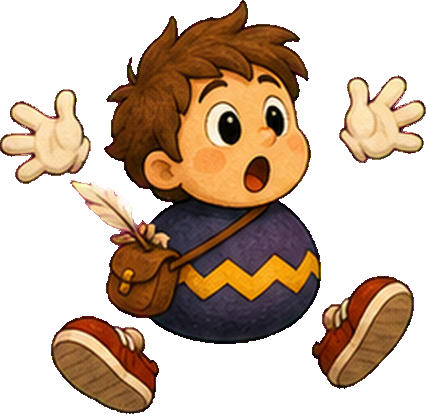
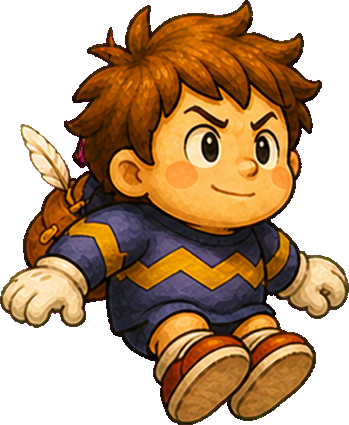
R5-F4 · Die AQ5-Kunst ist verdrahtet — die Anholung hat endlich ihr Bild
F3 hatte die Anholung zweimal gebaut, an den Gliedern und am ganzen Körper, und
ein dritter blinder Prüfer nannte sie trotzdem abwesend. Die Ursache war keine
Zeile Code: der Held wird aus gemalten Ganzkörper-Zellen gezeichnet, und die
sprang in EINEM Tick von »steht« auf »fliegt«. Batch AQ5 liefert die fehlenden
Bilder; dies ist die Runde, die sie einsetzt.

IMPORT-WERKZEUG (scripts/import-codex-sheet.mjs). Codex liefert Blätter: ein
Raster aus 512er-Zellen, Figuren opak über Magenta. Das Spiel will das
Gegenteil: eine freigestellte, auf den belegten Kasten getrimmte Datei je Zelle.
Dazwischen lag Handarbeit — und der Schnitt ist genau der Schritt, bei dem der
berüchtigte Rosa-Saum entsteht (key-fringe.mjs erzählt, was er einmal angerichtet
hat). Ein Skript schneidet jedes Mal gleich, eine Hand nicht. Die Kette ist jetzt
Import → strip-key-fringe → check-paint-art, und sie hat beim ersten Lauf 8.487
Saum-Pixel über genau die sieben neuen Zellen geheilt.

VERDRAHTET:
· `hero2_crouch` für die ersten zwei Ticks des Sprungs (HERO2_CROUCH_TICKS).
  Der Absprung wird NICHT verzögert — physikalisch ist der Körper längst
  unterwegs, gezeigt wird zwei Ticks lang noch das Sammeln. Der Körper-Coil aus
  F3 läuft darunter weiter und trägt die Zelle.
· Der Flug-Zyklus: aus einer eingefrorenen Zeichnung werden fünf Silhouetten
  (crouch · Aufstieg 1 · Aufstieg 2 · Scheitel · Fall). Zwei Prüfer hatten den
  20-Tick-Standbildflug unabhängig für gravierender gehalten als die fehlende
[…]

diff --git a/packages/game-paint/src/rigSpec.ts b/packages/game-paint/src/rigSpec.ts
@@ -4,6 +4,7 @@
 // global scale keeps the commissioned proportions. Pure data + tiny pure fns —
 // the scene's compositor consumes this; rig.ts supplies the motion.
 
+import { PAINT } from "./paint.ts";
 import type { PlayerPose } from "./player.ts";
 import { RIG, isGrounded } from "./rig.ts";
 
@@ -147,12 +148,40 @@ export const HERO2_STRIDE_TICKS = 9;
 /** |vy| (subs/tick) under which a jump arc reads as its weightless apex. */
 export const HERO2_APEX_VY = 40;
 
+// ── R5-F4 · DIE ANHOLUNG BEKOMMT IHR BILD (Batch AQ5) ────────────────────────
+// F3 hat die Anholung zweimal gebaut — an den Gliedern und am ganzen Körper —
+// und ein dritter blinder Prüfer nannte sie trotzdem abwesend. Zu Recht: der
+// Held wird aus gemalten Ganzkörper-Zellen gezeichnet, und die sprang in EINEM
+// Tick von „steht" auf „fliegt". Eine Stauchung verformt danach nur noch eine
+// Zeichnung, die den Sprung schon zeigt. Was fehlte, war ein gemaltes Bild der
+// Hocke — es liegt jetzt vor, und dies ist die Zeile, auf die F3 gewartet hat.
+/** Wie lange die Hocke steht. Zwei Ticks (33 ms): lang genug, dass das Auge
+ *  einen Zustand VOR dem Flug sieht, kurz genug, dass der Sprung nicht träge
+ *  wirkt. Der Absprung selbst ist unverändert — es wird nichts verzögert,
+ *  nur in den ersten beiden Ticks etwas anderes gezeigt. Der Körper-Coil aus
+ *  F3 (RIG.launchCoilTicks = 4) läuft darunter weiter und trägt die Zelle. */
+export const HERO2_CROUCH_TICKS = 2;
+/** Der Aufstieg ist jetzt zweistufig (AQ5 liefert Aufstieg 1 + 2). Die Schwelle
+ *  ist die Absprunggeschwindigkeit SELBST — abgeleitet, nicht getippt, damit
+ *  eine Physik-Änderung sie mitnimmt.
+ *
+ *  Der Grund steht in der gemessenen Geschwindigkeitsleiter eines gehaltenen
+ *  Sprungs: −1280 für FÜNFZEHN Ticks (das Haltefenster unterdrückt die
+ *  Schwerkraft), dann 1024 · 768 · 512 · 256 · 0. Der Aufstieg zerfällt also
+ *  von Natur aus in zwei ungleiche Hälften — den getragenen Teil, solange die
+ *  Taste hält, und den, in dem die Schwerkraft schon zieht. Genau dort trennt
+ *  diese Schwelle: Zelle eins gehört dem Abdrücken, Zelle zwei dem Steigen, das
+ *  bereits nachlässt. Ein Zwischenwert (der erste Versuch stand bei 420) gab
+ *  der zweiten Zelle einen einzigen Tick — gemessen, nicht vermutet. */
+export const HERO2_RISE2_VY = Math.abs(PAINT.jumpVy);
+
 /** The teeter alternates its two cells at this period (presentation clock). */
 export const HERO2_TEETER_TICKS = 28;
 
 export const HERO2_STEMS = [
   "hero2_run0", "hero2_run1", "hero2_run2", "hero2_run3",
-  "hero2_jump", "hero2_apex", "hero2_fall", "hero2_land",
+  "hero2_jump", "hero2_jump2", "hero2_apex", "hero2_fall", "hero2_land",
+  "hero2_crouch",
   "hero2_idle", "hero2_hit", "hero2_cheer",
   "hero2_teeter0", "hero2_teeter1",
 ] as const;
@@ -173,13 +202,25 @@ export const heroFullCell = (
   cheering: boolean,
   atEdge: boolean,
   tick: number,
+  /** R5-F4 · Ticks seit dem Absprung. Optional (Vorgabe „lange her"), damit
+   *  jeder bestehende Aufrufer und jeder Test unverändert bleibt. */
+  jumpedAgo = 99,
 ): string | null => {
   if (cheering) return "hero2_cheer";
   if (pose === "hit") return "hero2_hit";
   if (isLanding(pose, landedAgo)) return "hero2_land";
   if (pose === "jump" || pose === "fall") {
+    // R5-F4 · zuerst die Hocke: der Körper ist physikalisch schon unterwegs
+    // (der Absprung wurde NICHT verzögert), gezeigt wird für zwei Ticks noch
+    // das Sammeln. Genau die Lüge, die Animation seit jeher erzählt — und die
+    // eine, die F3 nicht erzählen konnte, weil das Bild dazu fehlte.
+    if (pose === "jump" && jumpedAgo < HERO2_CROUCH_TICKS) return "hero2_crouch";
     if (Math.abs(vySubs) < HERO2_APEX_VY) return "hero2_apex";
-    return pose === "jump" ? "hero2_jump" : "hero2_fall";
+    if (pose === "fall") return "hero2_fall";
+    // …und der Aufstieg in zwei Stufen statt einer eingefrorenen Zeichnung:
+    // zwei Prüfer nannten den 20-Tick-Standbild-Flug unabhängig gravierender
+    // als die fehlende Anholung.
+    return Math.abs(vySubs) >= HERO2_RISE2_VY ? "hero2_jump" : "hero2_jump2";
   }
   if (pose === "run" || pose === "walk") {
     return `hero2_run${Math.floor(walkTime / HERO2_STRIDE_TICKS) % 4}`;

diff --git a/packages/game-paint/src/hero2.test.ts b/packages/game-paint/src/hero2.test.ts
@@ -3,7 +3,7 @@
 // demanded: a run whose frames DIFFER, a landing that squashes, faces that
 // change per state, and a teeter that only fires at a real edge.
 import { describe, expect, it } from "vitest";
-import { HERO2_APEX_VY, HERO2_STEMS, HERO2_STRIDE_TICKS, HERO2_TEETER_TICKS, heroFullCell } from "./rigSpec.ts";
+import { HERO2_APEX_VY, HERO2_CROUCH_TICKS, HERO2_RISE2_VY, HERO2_STEMS, HERO2_STRIDE_TICKS, HERO2_TEETER_TICKS, heroFullCell } from "./rigSpec.ts";
 
 interface CellOpts {
   pose?: Parameters<typeof heroFullCell>[0];
@@ -13,6 +13,7 @@ interface CellOpts {
   cheering?: boolean;
   atEdge?: boolean;
   tick?: number;
+  jumpedAgo?: number;
 }
 const cell = (over: CellOpts = {}): string | null =>
   heroFullCell(
@@ -23,6 +24,7 @@ const cell = (over: CellOpts = {}): string | null =>
     over.cheering ?? false,
     over.atEdge ?? false,
     over.tick ?? 0,
+    over.jumpedAgo ?? 99,
   );
 
 describe("heroFullCell — the v2 override map", () => {
@@ -37,11 +39,30 @@ describe("heroFullCell — the v2 override map", () => {
     expect(cell({ pose: "walk", walkTime: HERO2_STRIDE_TICKS })).toBe("hero2_run1");
   });
 
-  it("the jump arc: rise, weightless apex, fall — three different silhouettes", () => {
-    expect(cell({ pose: "jump", vy: -(HERO2_APEX_VY + 20) })).toBe("hero2_jump");
+  // R5-F4 · aus drei Silhouetten sind FÜNF geworden (Batch AQ5): die Hocke vor
+  // dem Flug und ein zweistufiger Aufstieg. Zwei blinde Prüfer hatten den
+  // Aufstieg unabhängig als „eine starre Zeichnung, von der Kamera geschoben"
+  // beschrieben — hier steht jetzt, dass er sich unterwegs ändert.
+  it("der Sprungbogen: Hocke, kraftvoller Aufstieg, bremsender Aufstieg, Scheitel, Fall", () => {
+    // die Hocke gehört den ersten Ticks — und NUR dem Aufstieg
+    expect(cell({ pose: "jump", vy: -1280, jumpedAgo: 0 })).toBe("hero2_crouch");
+    expect(cell({ pose: "jump", vy: -1280, jumpedAgo: HERO2_CROUCH_TICKS - 1 })).toBe("hero2_crouch");
+    expect(cell({ pose: "jump", vy: -1280, jumpedAgo: HERO2_CROUCH_TICKS })).toBe("hero2_jump");
+    expect(cell({ pose: "fall", vy: 1280, jumpedAgo: 0 }), "ein Fall hockt nicht").toBe("hero2_fall");
+    // der Aufstieg in zwei Stufen
+    expect(cell({ pose: "jump", vy: -HERO2_RISE2_VY })).toBe("hero2_jump");
+    expect(cell({ pose: "jump", vy: -(HERO2_RISE2_VY - 1) })).toBe("hero2_jump2");
+    // …und die beiden Enden, unverändert
     expect(cell({ pose: "jump", vy: -(HERO2_APEX_VY - 1) })).toBe("hero2_apex");
     expect(cell({ pose: "fall", vy: HERO2_APEX_VY - 1 })).toBe("hero2_apex");
     expect(cell({ pose: "fall", vy: HERO2_APEX_VY + 40 })).toBe("hero2_fall");
+  });
+
+  it("die Schwellen liegen in der richtigen Reihenfolge", () => {
+    // ein Tippfehler, der RISE2 unter APEX schiebt, würde die zweite
+    // Aufstiegszelle unerreichbar machen — still, und nur hier sichtbar
+    expect(HERO2_RISE2_VY).toBeGreaterThan(HERO2_APEX_VY);
+    expect(HERO2_CROUCH_TICKS).toBeGreaterThan(0);
   });
 
   it("the touchdown wears the painted squash for the land window, then stands", () => {
@@ -70,11 +91,15 @@ describe("heroFullCell — the v2 override map", () => {
   it("every cell the map can emit is in the manifest contract", () => {
     const emitted = new Set<string>();
     for (const pose of ["stand", "walk", "run", "jump", "fall", "hit"] as const) {
-      for (const vy of [-80, -10, 10, 80]) {
+      for (const vy of [-1280, -80, -10, 10, 80, 1280]) {
         for (const walkTime of [0, 9, 18, 27, 36]) {
           for (const landedAgo of [0, 99]) {
             for (const atEdge of [false, true]) {
               for (const tick of [0, HERO2_TEETER_TICKS]) {
+                for (const ja of [0, 99]) {
+                  const c = heroFullCell(pose, walkTime, vy, landedAgo, false, atEdge, tick, ja);
+                  if (c !== null) emitted.add(c);
+                }
                 const c = heroFullCell(pose, walkTime, vy, landedAgo, false, atEdge, tick);
                 if (c !== null) emitted.add(c);
               }

diff --git a/packages/game-paint/src/PaintScene.ts b/packages/game-paint/src/PaintScene.ts
@@ -2989,6 +2989,7 @@ export class PaintScene extends Phaser.Scene {
     const fullCell = heroFullCell(
       this.player.pose, this.player.walkTime, this.player.vy,
       this.player.landedAgo, cheer > 0, this.heroAtEdge(), this.tickCount,
+      this.player.jumpedAgo, // R5-F4: die Uhr, an der die Hocke hängt
     );
     const full = fullCell !== null && this.textures.exists(this.tex(fullCell)) ? fullCell : null;
     // R5-F3 · DIE ANHOLUNG GILT FÜR BEIDE ZEICHENWEGE. Die per-Glied-Anholung
